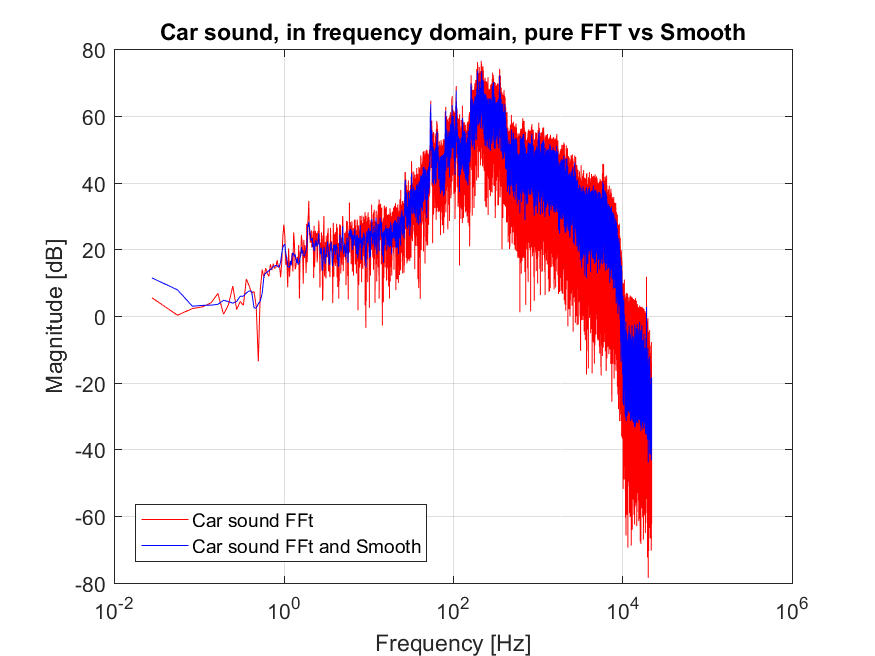
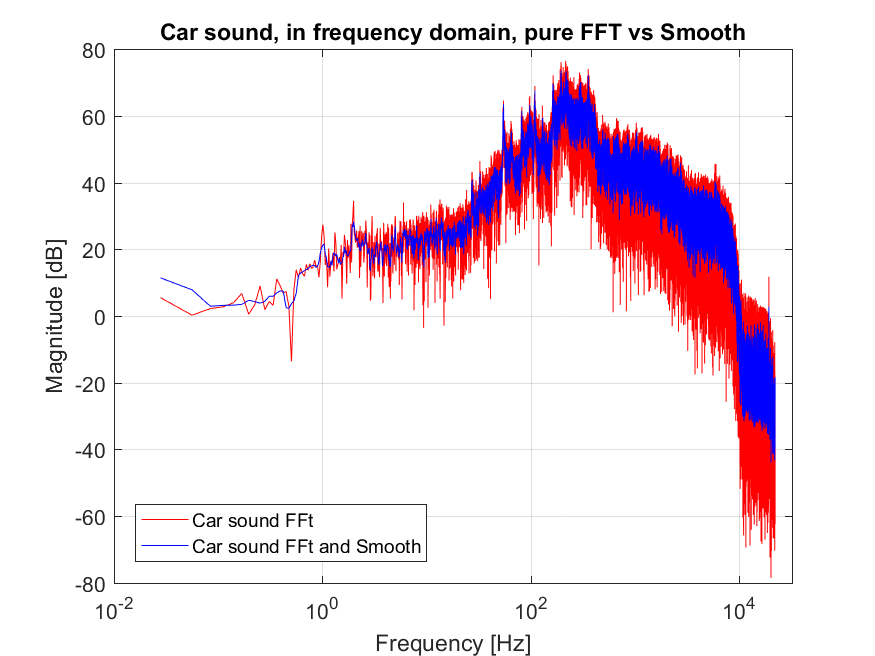
Påbegynder subcaption

diff --git a/code/car.m b/code/car.m
@@ -45,6 +45,7 @@ hold on
 title([figureTitle, ' sound, in frequency domain, pure FFT vs Smooth']);
 xlabel('Frequency [Hz]');
 ylabel('Magnitude [dB]');
+xlim([10^-2 Fs/2+10000])
 semilogx(frequency_samples(1:N/2), YSmooth(1:N/2), 'b');
 legend([figureTitle,' sound FFt'],[figureTitle,' sound FFt and Smooth'], 'Location', 'southwest');
 grid on
@@ -65,6 +66,7 @@ hold on
 title([figureTitle, ' sound, in frequency domain, pure FFT vs Zeropad']);
 xlabel('Frequency [Hz]');
 ylabel('Magnitude [dB]');
+xlim([10^-2 Fs/2+10000])
 semilogx(frequency_samples(1:N/2), YdB(1:N/2), 'r');
 legend([figureTitle,' sound FFt and Zeropad'],[figureTitle,' sound FFt'], 'Location', 'southwest');
 grid on
@@ -83,6 +85,7 @@ hold on
 title([figureTitle, ' sound, in frequency domain, FFT vs Hamming windowing']);
 xlabel('Frequency [Hz]');
 ylabel('Magnitude [dB]');
+xlim([10^-2 Fs/2+10000])
 semilogx(frequency_samples(1:N/2), YdB(1:N/2), 'r');
 legend([figureTitle,' sound FFt and Hamming windowing'],[figureTitle,' sound FFt'], 'Location', 'southwest');
 grid on

diff --git a/contents.tex b/contents.tex
@@ -1,24 +1,18 @@
-
-
-
-
-
-
 \section{Frequency analysis}
 \label{sec:analysis}
 \subsection{Car engine}
-
-\begin{figure}
-	\includegraphics[width=\textwidth]{code/Car_figure1.png}
-	\caption{kage}
+\begin{figure}[htb]
+	\centering
+	\includegraphics[width=.5\textwidth]{code/Car_figure1.png}
+	\caption{The sound of a car shown in the Time Domain.}
 	\label{fig:Car_figure1:1}
 \end{figure}
 
 \subsubsection{DFT}
-\begin{figure}
+\begin{figure}[htb]
 	\centering
-	\includegraphics[width=\textwidth]{code/Car_figure2.png}
-	\caption{}
+	\includegraphics[width=.5\textwidth]{code/Car_figure2.png}
+	\caption{The sound of a car shown in the Frequency Domain.}
 	\label{fig:Car_figure2:2}
 \end{figure}
 

diff --git a/main.tex b/main.tex
@@ -29,6 +29,7 @@
 \usepackage{tabu}
 
 \usepackage{cleveref}
+\usepackage{subcaption}
 
 
 
